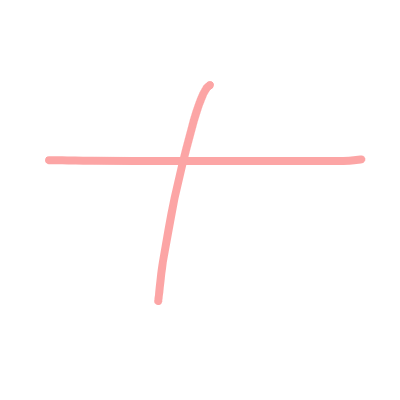
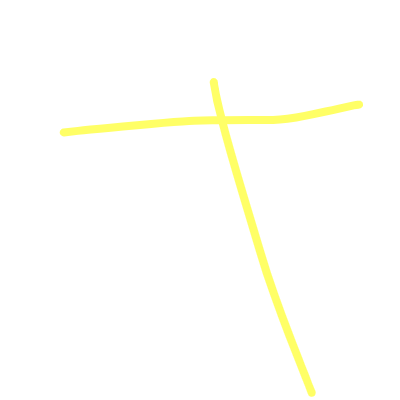
b
b

Changed region(s): [[0.09, 0.18, 0.93, 0.99]]

diff --git a/reactjs/src/Components/PageLayout/Header/navbar.jsx b/reactjs/src/Components/PageLayout/Header/navbar.jsx
@@ -6,51 +6,6 @@ import { useEffect, useState } from 'react';
 import logo from '../../../assets/logo/logo1.png';
 function NavBar() {
   return (
-    // <nav className='navbar navbar-expand navbar-light '>
-    //   <div className='nav-left-side'>
-    //     <Link to={'/'}>
-    //       <img className='navbar-logo' src={logo} alt='logo' />
-    //     </Link>
-    //     <Link to={'/login'}>
-    //       <img src='https://i.ibb.co/PCjW83Y/avt.png' className='avt' />
-    //     </Link>
-    //   </div>
-
-    //   <div className='nav-right-side'>
-    //     {/* <>
-    //       <div className='name-user'>Hi,</div>
-    //       <div>
-    //         {/* <img src="https://i.ibb.co/PCjW83Y/avt.png" className="avt" /> */}
-    //     {/* <div className='dropdown'>
-    //           <i className=' fa fa-solid fa-caret-down dropbtn'></i>
-    //           <div className='drop-down-item dropdown-content'>
-    //             <Link to={'/setting'}>Tài Khoản</Link>
-    //             <button>Logout</button>
-    //           </div>
-    //         </div>
-    //       </div>
-    //     </> */}{' '}
-    //   </div>
-    // </nav>
-    // <>
-    //   <div className='header'>
-    //     <div className='header-logo'>
-    //       <Link to={'/'}>
-    //         <img className='navbar-logo' src={logo} alt='logo' />
-    //       </Link>
-    //     </div>
-    //   </div>
-    //   <div className='nav-right'>
-    //     <Link to={'/login'}>
-    //       <div>
-    //         <img src='https://i.ibb.co/PCjW83Y/avt.png' className='avt' />
-    //         <button className='navbar-btn' id='btnSignUp'>
-    //           LOGIN
-    //         </button>
-    //       </div>
-    //     </Link>
-    //   </div>
-    // </>
     <nav id='header-navbar' className='navbar navbar-expand-lg py-4'>
       <div className='container'>
         <Link className='navbar-brand d-flex align-items-center text-white' to={'/'}>

diff --git a/reactjs/src/Components/Search/Search.component.jsx b/reactjs/src/Components/Search/Search.component.jsx
@@ -1,6 +1,6 @@
 import React, { useRef, useState } from 'react';
 import { WrapperSearch } from './Search.style';
-import { Link } from 'react-router-dom';
+import { Link, NavLink, useNavigate } from 'react-router-dom';
 import CanvasDraw from 'react-canvas-draw';
 import pencil from '../../assets/logo/pencil.png';
 import searchI from '../../assets/logo/search.png';
@@ -8,7 +8,7 @@ import axios from 'axios';
 export default function SearchComponent({ kanji }) {
   const [search, setSearch] = useState('');
   const canvasRef = useRef(null);
-  const canvas = '#FCA5A5';
+  const canvas = '#ffff66';
   const brush = 4;
   let dataFinal;
   const [result, setResult] = useState([]);
@@ -44,7 +44,12 @@ export default function SearchComponent({ kanji }) {
     }
     console.log(result);
   };
-
+  let navigate = useNavigate();
+  const keyPressEnter = (e) => {
+    if (e.key === 'Enter') {
+      navigate(`/detail/${search}`);
+    }
+  };
   return (
     <WrapperSearch>
       <div className='method-input-button' onClick={handleClick}>
@@ -54,13 +59,14 @@ export default function SearchComponent({ kanji }) {
         <input
           type='text'
           onChange={onChange}
+          onKeyPress={keyPressEnter}
           placeholder='Tra hán tự: hán, 漢, かん'
-          defaultValue={kanji}
+          value={kanji}
           id='inputWord'
         />
-        <Link to={`/detail/${search}`}>
+        <NavLink to={`/detail/${search}`}>
           <img src={searchI} alt='' className='searchIcon' />
-        </Link>
+        </NavLink>
       </div>
       <div className='writing-draw'>
         {isShown && (

diff --git a/reactjs/src/modules/home/index.jsx b/reactjs/src/modules/home/index.jsx
@@ -1,6 +1,6 @@
 import React, { useEffect, useRef, useState } from 'react';
 import './index.css';
-import { NavLink } from 'react-router-dom';
+import { NavLink, useNavigate } from 'react-router-dom';
 import SearchComponent from '../../Components/Search/Search.component';
 import '../../assets/bootstrap/bootstrap.min.css';
 import CanvasDraw from 'react-canvas-draw';
@@ -46,7 +46,12 @@ function HomeScreen() {
     }
     console.log(result);
   };
-
+  let navigate = useNavigate();
+  const keyPressEnter = (e) => {
+    if (e.key === 'Enter') {
+      navigate(`/detail/${search}`);
+    }
+  };
   return (
     <div>
       <div className='jumbotron d-flex align-items-center'>
@@ -64,6 +69,7 @@ function HomeScreen() {
                   placeholder='Tra hán tự: hán, 漢, かん'
                   id='inputWord'
                   value={search}
+                  onKeyPress={keyPressEnter}
                   onChange={(event) => {
                     setSearch(event.target.value);
                   }}

diff --git a/reactjs/src/modules/detail/detail.jsx b/reactjs/src/modules/detail/detail.jsx
@@ -5,7 +5,7 @@ import AudioPlayer from 'react-h5-audio-player';
 import ReactPlayer from 'react-player';
 import 'react-h5-audio-player/lib/styles.css';
 import { Image, List, Row, Col, Table, Typography } from 'antd';
-import {  useParams } from 'react-router-dom';
+import { useParams } from 'react-router-dom';
 import { useEffect } from 'react';
 import SearchComponent from '../../Components/Search/Search.component';
 
@@ -14,7 +14,6 @@ function Detail() {
   const [data, setData] = useState({});
   const [dataMazzi, setDataMazzi] = useState({});
   const kanji = useParams().kanji;
-  
 
   useEffect(() => {
     fetchData();
@@ -83,7 +82,7 @@ function Detail() {
     <div>
       <div className='jumbotron d-flex '>
         <div id='container-fluid'>
-        <SearchComponent kanji={kanji}/>
+          <SearchComponent kanji={kanji} />
           <div class='row come-in'>
             <div class='col-lg-4 col-md-6 col-sm-12 col-xs-12'>
               <div class='panel panel-primary'>

diff --git a/reactjs/src/App.js b/reactjs/src/App.js
@@ -14,13 +14,13 @@ function App() {
     <BrowserRouter>
       <NavBar />
 
-      <Routes>
+      <Routes >
         <Route exact path='/' element={<HomePage />} />
         <Route path='/login' element={<Login />} />
         <Route path='/register' element={<Register />} />
         <Route path='/about' element={<About />} />
         <Route path='/detail/:kanji' element={<Detail />} />
-      </Routes>
+        </Routes>
       {/* <div className='App-footer '>
         <AboutUs />
       </div> */}

diff --git a/reactjs/src/modules/detail/detail.css b/reactjs/src/modules/detail/detail.css
@@ -58,6 +58,7 @@
   position: absolute;
   left: 330px;
 }
+
 .icon-input:hover {
   box-shadow: 0 1px 1px rgb(0 0 0 / 10%);
   border: 1px solid #dadce0;
